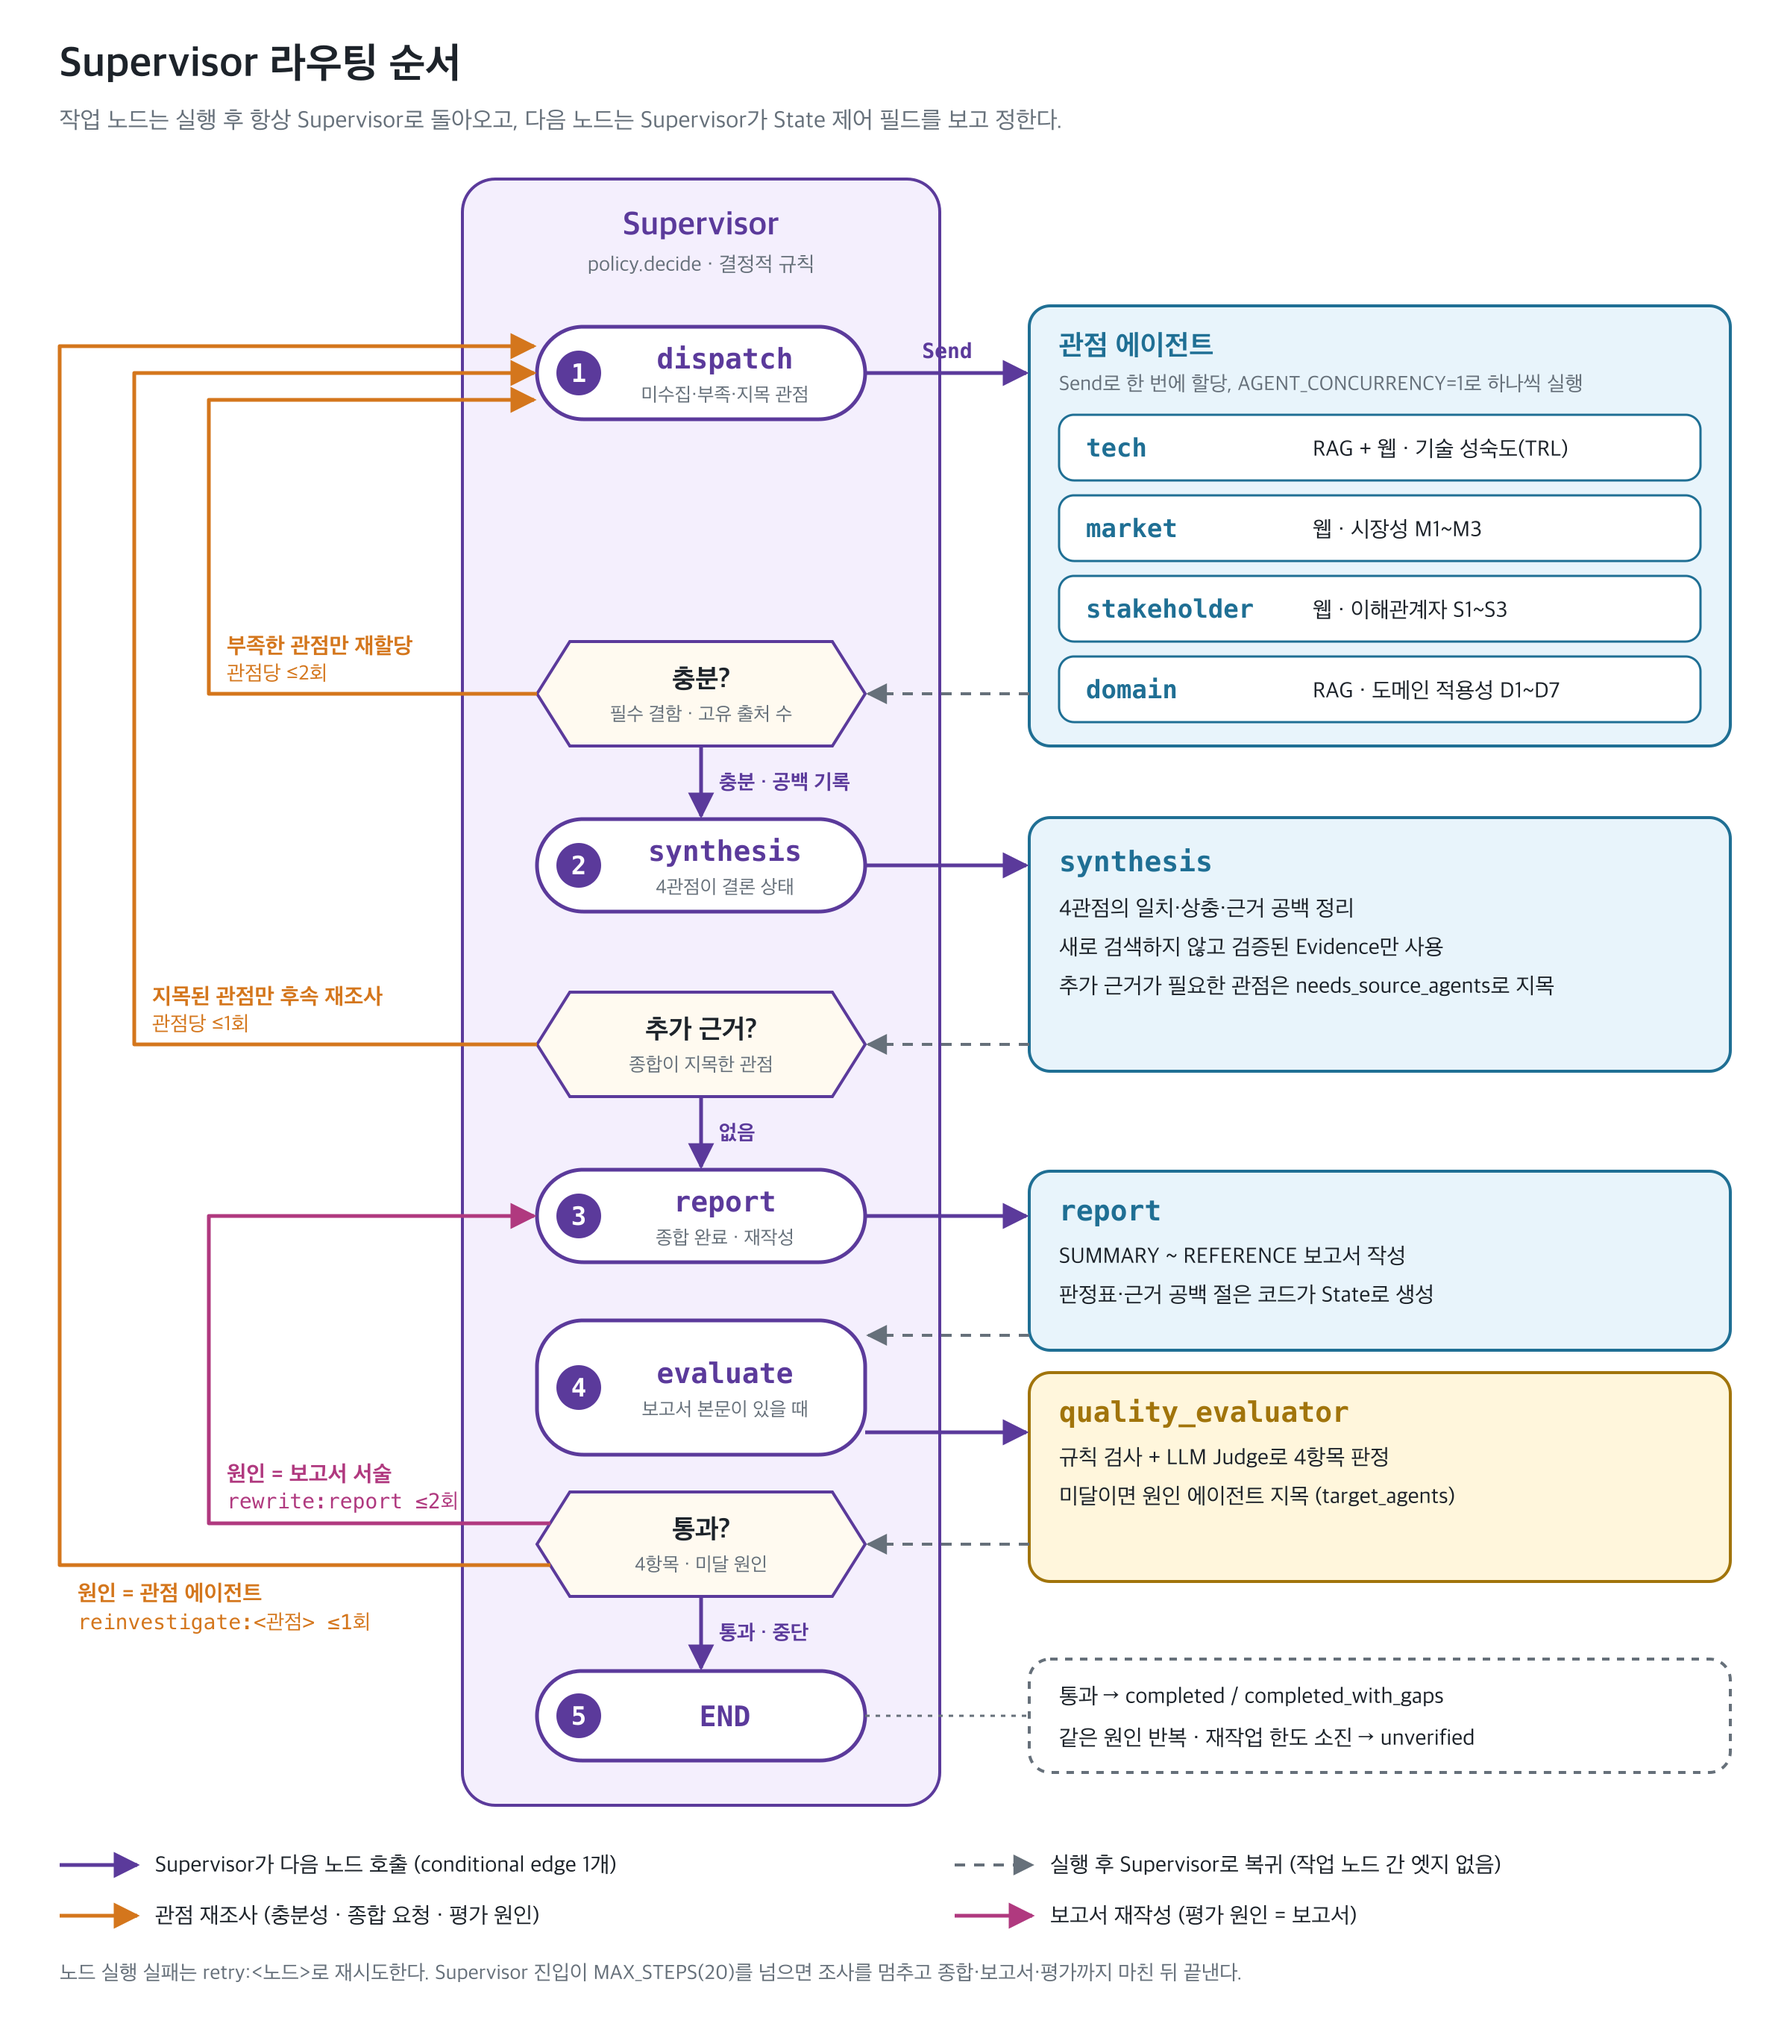
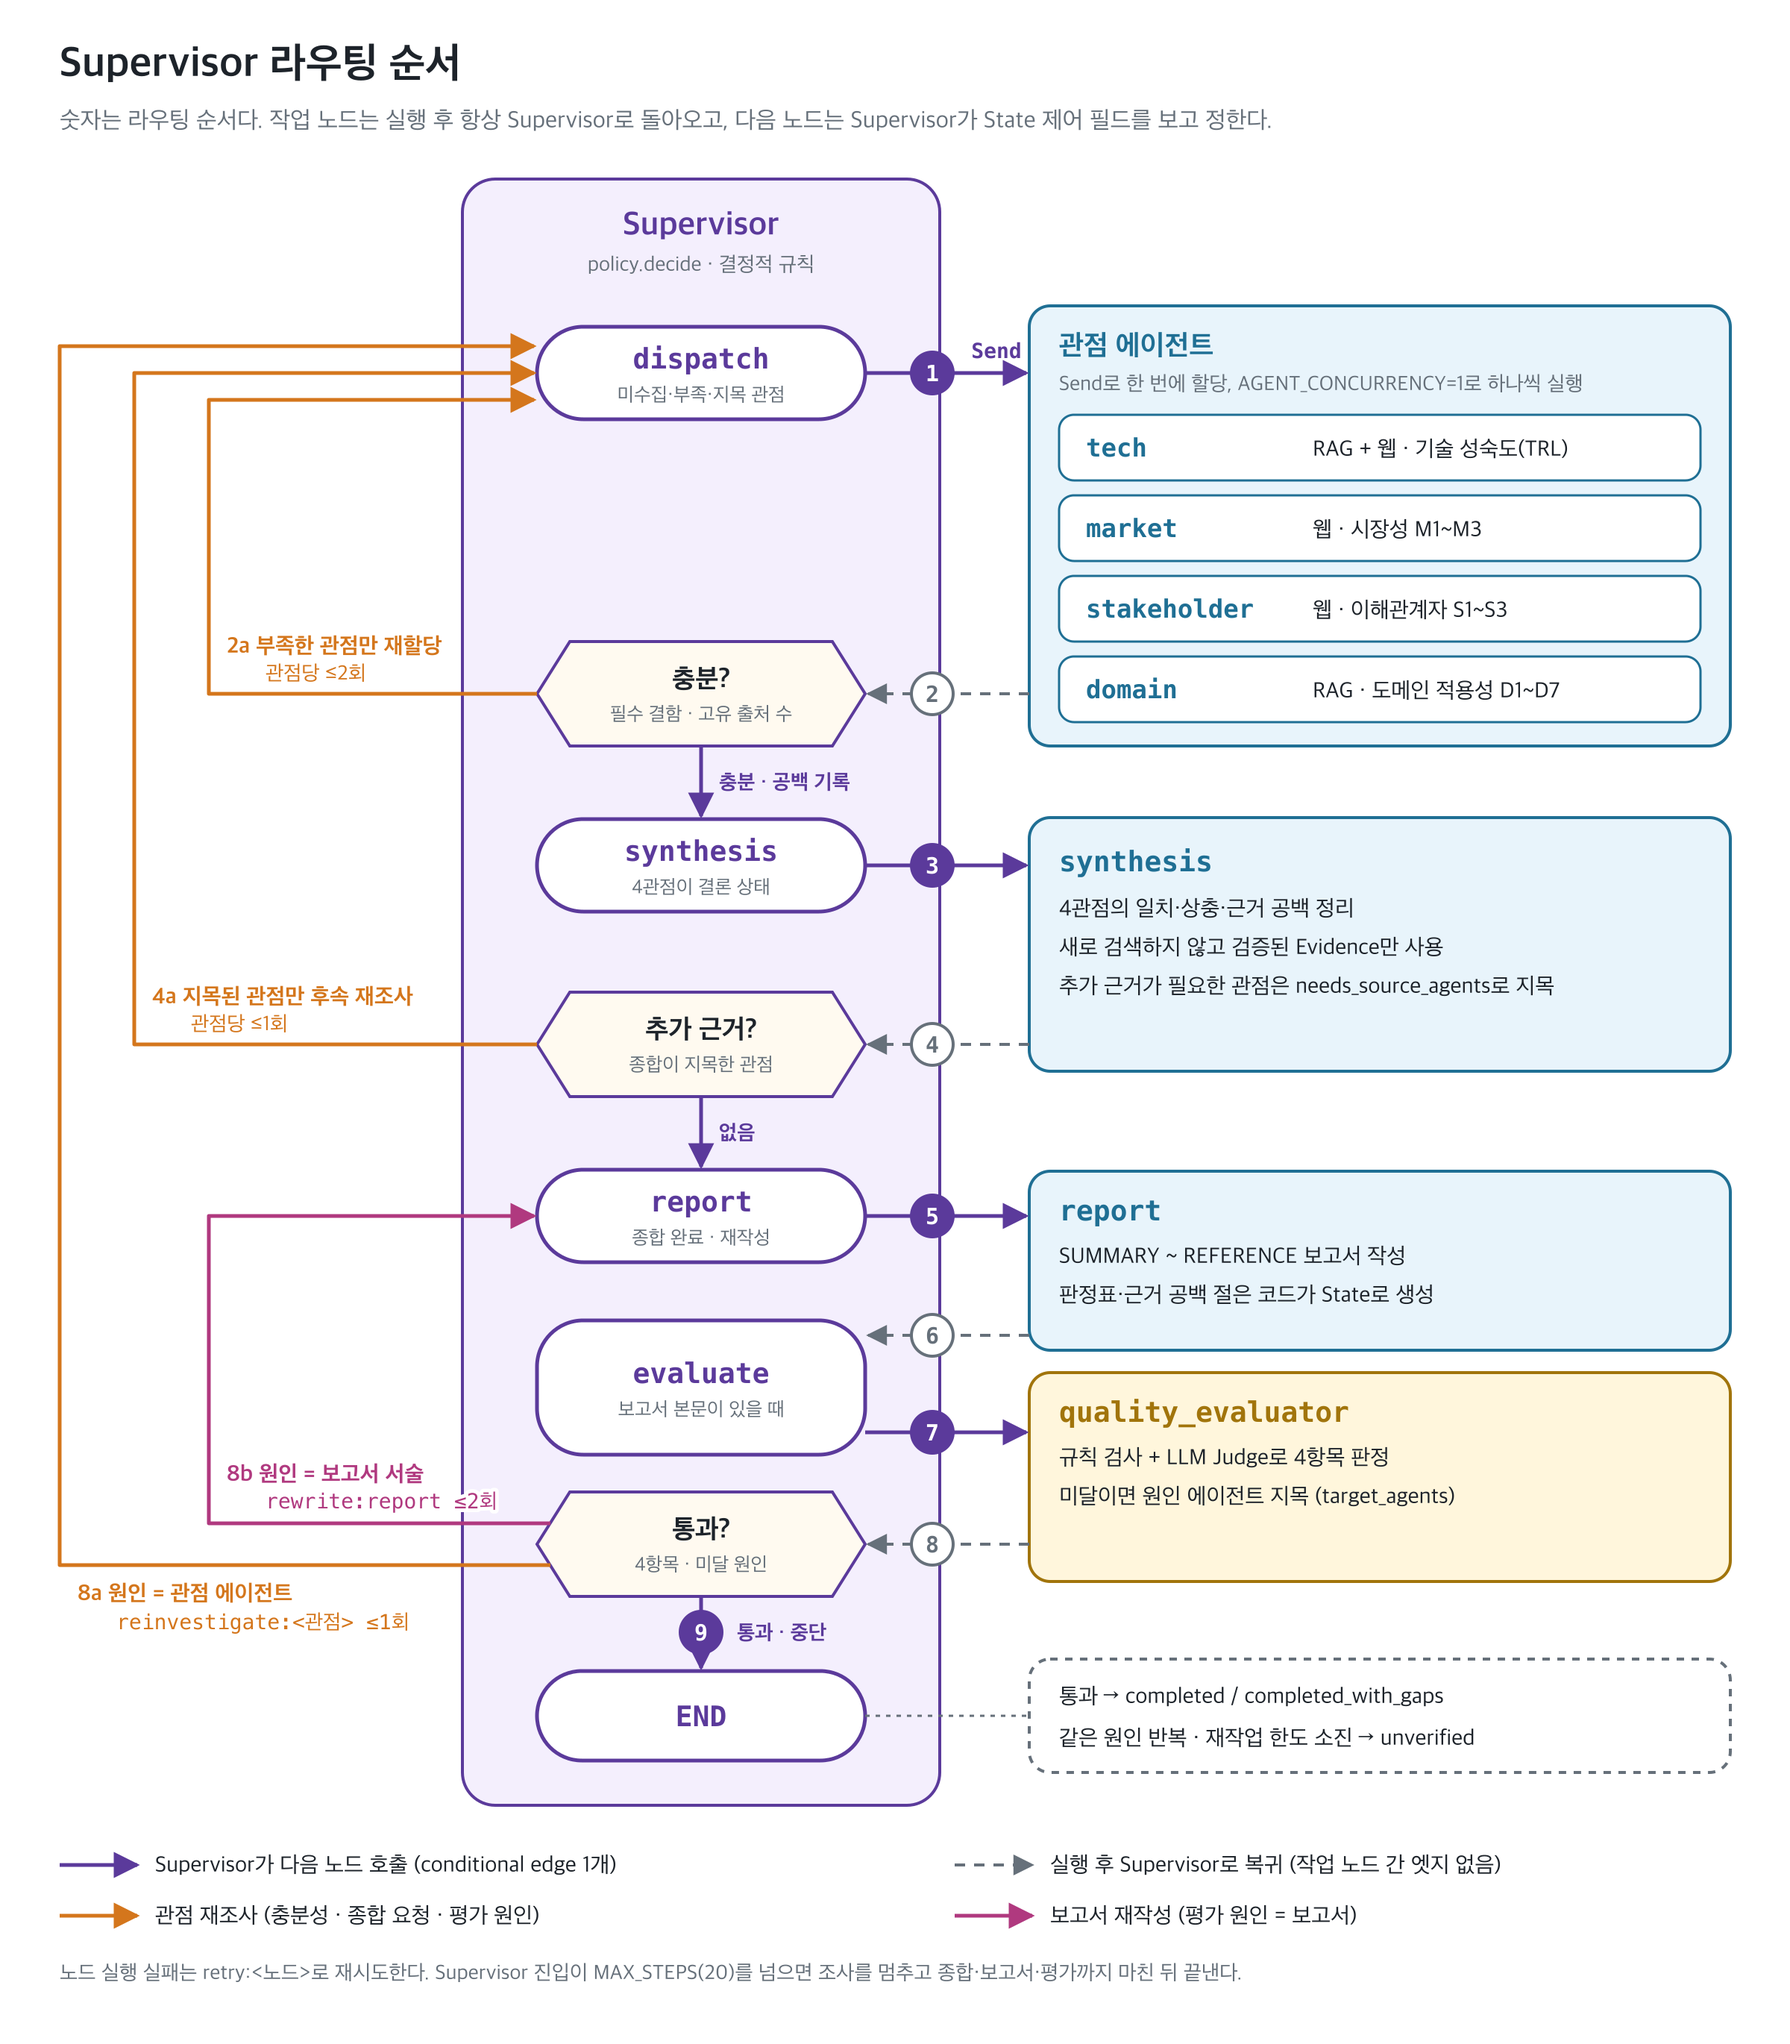
docs: Architecture에 라우팅 순서 Mermaid 추가, 순서도에 번호 표시
- PNG 순서도와 같은 구조의 Mermaid(작업 노드 / Supervisor 결정)를 추가
- 두 그림과 설명 목록에 같은 라우팅 번호(1~9, 되돌림 2a·4a·8a·8b)를 붙임

diff --git a/README.md b/README.md
@@ -151,19 +151,82 @@ Payload는 각 agent가 수집·생성한 결과를 담는다.
 
 ![Supervisor 라우팅 순서](docs/architecture.png)
 
-그래프의 실행 흐름은 다음과 같다. 작업 노드는 실행 후 항상 Supervisor로 돌아오며, 재작업 경로(주황·자주)도 모두 Supervisor가 결정한다.
+```mermaid
+flowchart TB
+    START([START]) --> D1
 
-1. `dispatch` : 아직 조사하지 않은 관점을 `Send`로 한 번에 할당하고, 기본 설정에서는 하나씩 실행한다. 결과가 돌아오면 충분성을 판정해 평가를 진행할 수 없게 하는 결함이 있거나 출처가 부족한 관점만 다시 할당한다(관점당 2회).
-2. `synthesis` : 4관점이 모두 결론 상태(충분 또는 근거 공백 기록)가 되면 실행한다. 종합이 추가 근거를 요구하면 그 관점만 후속 재조사(관점당 1회)한 뒤 다시 종합한다.
-3. `report` : 종합이 끝나면 보고서를 쓴다.
-4. `evaluate` : 보고서 본문이 있을 때만 `quality_evaluator`를 실행한다.
-5. 통과하면 `END`로 종료한다. 미달이면 원인이 관점 에이전트일 때 `reinvestigate:<관점>`으로 재조사하고, 보고서 서술의 문제일 때는 `rewrite:report`로 보고서 재작성 단계로 되돌린다. 같은 원인이 반복되거나 한도를 모두 쓰면 `unverified`로 종료한다.
+    subgraph SUP["Supervisor · policy.decide"]
+        D1(["dispatch<br/>미수집·부족·지목 관점"])
+        C1{{"충분?<br/>필수 결함 · 고유 출처 수"}}
+        D2(["synthesis<br/>4관점이 결론 상태"])
+        C2{{"추가 근거?<br/>종합이 지목한 관점"}}
+        D3(["report<br/>종합 완료 · 재작성"])
+        D4(["evaluate<br/>보고서 본문이 있을 때"])
+        C3{{"통과?<br/>4항목 · 미달 원인"}}
+        E(["END"])
+    end
 
-그림은 `docs/architecture.svg`가 원본이다. 컴파일된 LangGraph 그래프는 `python scripts/export_graph.py`로 `outputs/architecture.png`에 생성하며, 조건부 edge는 `supervisor`에만 있고 작업 노드끼리 연결된 엣지는 없다.
+    subgraph AG["작업 노드"]
+        P["관점 에이전트 · 하나씩 실행<br/>tech · market · stakeholder · domain"]
+        SYN["synthesis<br/>일치·상충·근거 공백 정리"]
+        REP["report<br/>SUMMARY ~ REFERENCE"]
+        QE["quality_evaluator<br/>규칙 + LLM Judge"]
+    end
+
+    D1 -->|"1 Send"| P
+    P -.->|"2"| C1
+    C1 -->|"충분 · 공백 기록"| D2
+    D2 -->|"3"| SYN
+    SYN -.->|"4"| C2
+    C2 -->|"없음"| D3
+    D3 -->|"5"| REP
+    REP -.->|"6"| D4
+    D4 -->|"7"| QE
+    QE -.->|"8"| C3
+    C3 -->|"9 통과 · 중단"| E
+
+    C1 -->|"2a 부족 관점 재할당 ≤2회"| D1
+    C2 -->|"4a 지목 관점 후속 재조사 ≤1회"| D1
+    C3 -->|"8a reinvestigate ≤1회"| D1
+    C3 -->|"8b rewrite:report ≤2회"| D3
+
+    classDef decide fill:#ffffff,stroke:#5b3a9b,stroke-width:2px,color:#5b3a9b
+    classDef check fill:#fffaf0,stroke:#5b3a9b,color:#1d232a
+    classDef agent fill:#e8f4fb,stroke:#1f6f94,color:#1d232a
+    classDef gate fill:#fff6dc,stroke:#a1740b,color:#1d232a
+    classDef term fill:#ffffff,stroke:#66707a,color:#1d232a
+    class D1,D2,D3,D4,E decide
+    class C1,C2,C3 check
+    class P,SYN,REP agent
+    class QE gate
+    class START term
+    style SUP fill:#f4effd,stroke:#5b3a9b,color:#5b3a9b
+    style AG fill:#f7fbfd,stroke:#1f6f94,color:#1f6f94
+    linkStyle 12,13,14 stroke:#d4761c,stroke-width:2px,color:#d4761c
+    linkStyle 15 stroke:#b0397f,stroke-width:2px,color:#b0397f
+```
+
+PNG와 Mermaid는 같은 흐름을 그렸고, 번호는 라우팅 순서다. 실선은 Supervisor가 다음 노드를 부르는 경로, 점선은 작업 노드가 실행 후 Supervisor로 돌아오는 경로다. 작업 노드끼리 직접 이어진 엣지는 없고, 되돌림 경로(2a·4a·8a·8b)도 모두 Supervisor가 정한다.
+
+1. Supervisor → 관점 에이전트 (`dispatch`) : 미수집 관점을 `Send`로 한 번에 할당하고 하나씩 실행한다.
+2. 관점 에이전트 → Supervisor : 결과를 받아 충분성을 판정한다.
+   - 2a. 판정을 막는 결함이 있거나 출처가 부족한 관점만 다시 할당한다(관점당 2회, 1로).
+3. Supervisor → `synthesis` : 4관점이 모두 결론 상태(충분 또는 근거 공백 기록)일 때 부른다.
+4. synthesis → Supervisor : 종합이 추가 근거를 요구했는지 확인한다.
+   - 4a. 종합이 지목한 관점만 후속 재조사한 뒤 다시 종합한다(관점당 1회, 1로).
+5. Supervisor → `report` : 종합이 끝나면 보고서를 쓴다.
+6. report → Supervisor : 보고서 본문이 있는지 확인한다.
+7. Supervisor → `quality_evaluator` (`evaluate`) : 본문이 있을 때만 부른다.
+8. quality_evaluator → Supervisor : 4항목 판정과 미달 원인(`target_agents`)을 받는다.
+   - 8a. 원인이 관점 에이전트면 `reinvestigate:<관점>`으로 그 관점만 재조사한다(관점당 1회, 1로).
+   - 8b. 원인이 보고서 서술이면 `rewrite:report`로 보고서만 다시 쓴다(2회, 5로).
+9. Supervisor → `END` : 통과면 `completed`(근거 공백이 있으면 `completed_with_gaps`), 같은 원인이 반복되거나 한도를 다 쓰면 `unverified`로 끝낸다.
+
+PNG의 원본은 `docs/architecture.svg`다. 컴파일된 LangGraph 그래프는 `python scripts/export_graph.py`로 `outputs/architecture.png`에 그려지며, conditional edge가 `supervisor` 하나뿐이고 작업 노드끼리 연결된 엣지가 없다.
 
 ### 실제 실행 경로
 
-`outputs/run_logs.json`, trace `77cb99ef`, 커밋 `9a6b5bf`, 11단계:
+`outputs/run_logs.json`, trace `77cb99ef`, 커밋 `9a6b5bf`, 11단계. 왼쪽 `#`은 Supervisor 진입 순번이며 위 라우팅 번호와는 별개다.
 
 (LangSmith metadata의 `revision_id`가 `9a6b5bf-dirty`인 것은 코드 변경이 아니라, 실행 시작 시 `tee`가 git이 추적하는 `outputs/run_console.log`를 덮어썼기 때문이다.)
 
